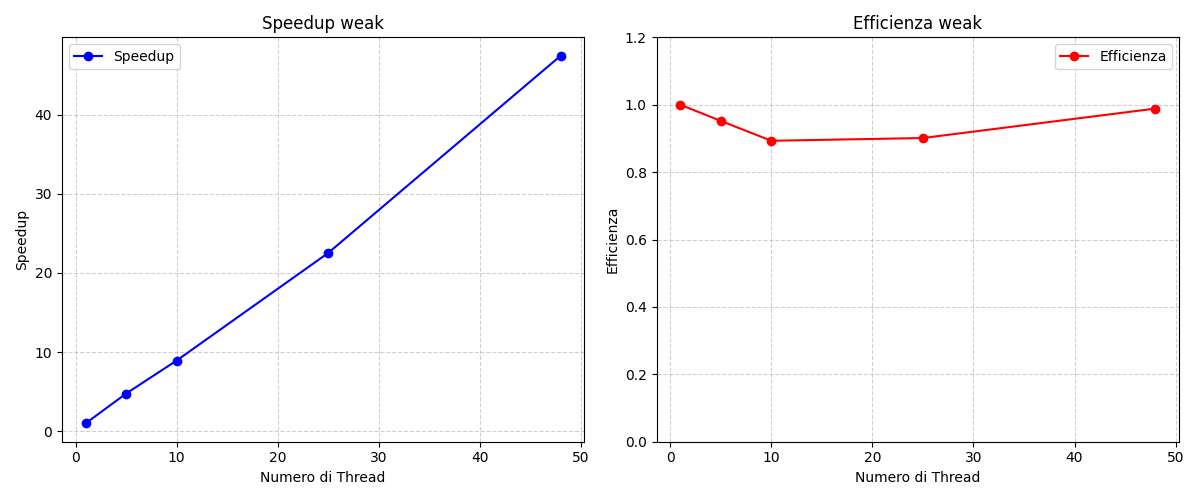
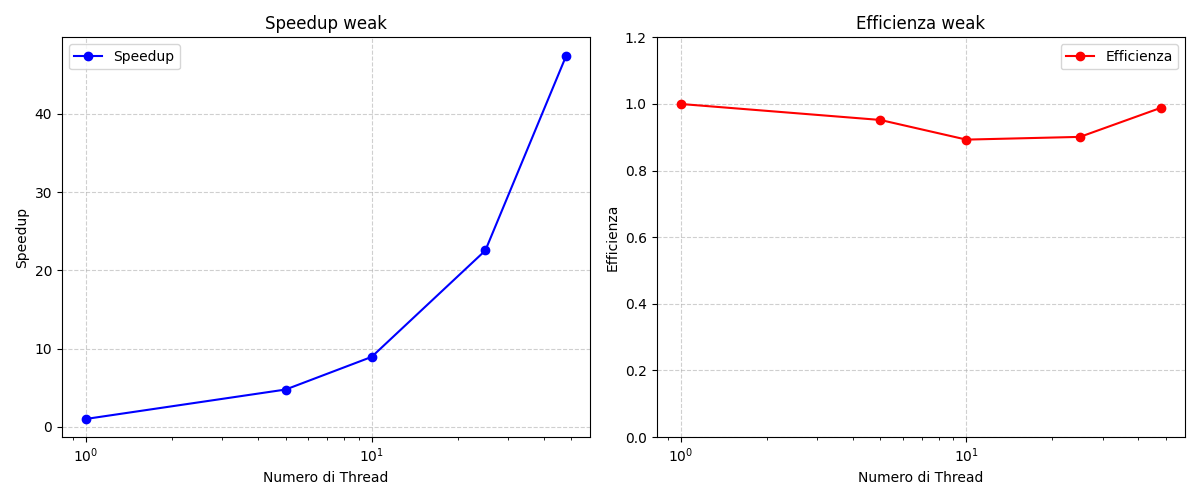
asd

diff --git a/HPC/Approfondimento riduzione/risultati/grafici/plot_omp_strong.py b/HPC/Approfondimento riduzione/risultati/grafici/plot_omp_strong.py
@@ -1,4 +1,4 @@
-import matplotlib.pyplot as plt
+import matplotlib.pyplot as plt # type: ignore
 
 # Dati dalla tabella
 num_threads = [1, 5, 10, 25, 48, 50, 100]
@@ -10,22 +10,25 @@ fig, axes = plt.subplots(1, 2, figsize=(12, 5))
 
 # Primo grafico: Speedup
 axes[0].plot(num_threads, speedup, 'bo-', markersize=6, label="Speedup")
+axes[0].axvline(48, color='black', linestyle='--', linewidth=1)  # Linea tratteggiata verticale
 axes[0].set_xlabel("Numero di Thread")
 axes[0].set_ylabel("Speedup")
 axes[0].set_title("Speedup strong")
 axes[0].grid(True, linestyle="--", alpha=0.6)
 axes[0].legend()
+axes[0].set_xscale('log')  # Scala logaritmica sull'asse x
 
 # Secondo grafico: Efficienza
 axes[1].plot(num_threads, efficiency, 'ro-', markersize=6, label="Efficienza")
+axes[1].axvline(48, color='black', linestyle='--', linewidth=1)  # Linea tratteggiata verticale
 axes[1].set_xlabel("Numero di Thread")
 axes[1].set_ylabel("Efficienza")
 axes[1].set_title("Efficienza strong")
-axes[1].set_ylim(0, 1.2)  # Imposta il limite dell'asse y da 0 a 0.5
+axes[1].set_ylim(0, 1.2)  # Limita l'asse y
 axes[1].grid(True, linestyle="--", alpha=0.6)
 axes[1].legend()
+axes[1].set_xscale('log')  # Scala logaritmica sull'asse x
 
 # Mostra i grafici
 plt.tight_layout()
 plt.show()
-

diff --git a/HPC/Approfondimento riduzione/risultati/grafici/plot_omp_weak.py b/HPC/Approfondimento riduzione/risultati/grafici/plot_omp_weak.py
@@ -1,4 +1,4 @@
-import matplotlib.pyplot as plt
+import matplotlib.pyplot as plt # type: ignore
 
 # Dati dalla tabella
 num_threads = [1, 5, 10, 25, 48]
@@ -15,6 +15,7 @@ axes[0].set_ylabel("Speedup")
 axes[0].set_title("Speedup weak")
 axes[0].grid(True, linestyle="--", alpha=0.6)
 axes[0].legend()
+axes[0].set_xscale('log')  # Scala logaritmica sull'asse x
 
 # Secondo grafico: Efficienza
 axes[1].plot(num_threads, efficiency, 'ro-', markersize=6, label="Efficienza")
@@ -24,6 +25,7 @@ axes[1].set_title("Efficienza weak")
 axes[1].set_ylim(0, 1.2)  # Imposta il limite dell'asse y da 0 a 0.5
 axes[1].grid(True, linestyle="--", alpha=0.6)
 axes[1].legend()
+axes[1].set_xscale('log')  # Scala logaritmica sull'asse x
 
 # Mostra i grafici
 plt.tight_layout()
